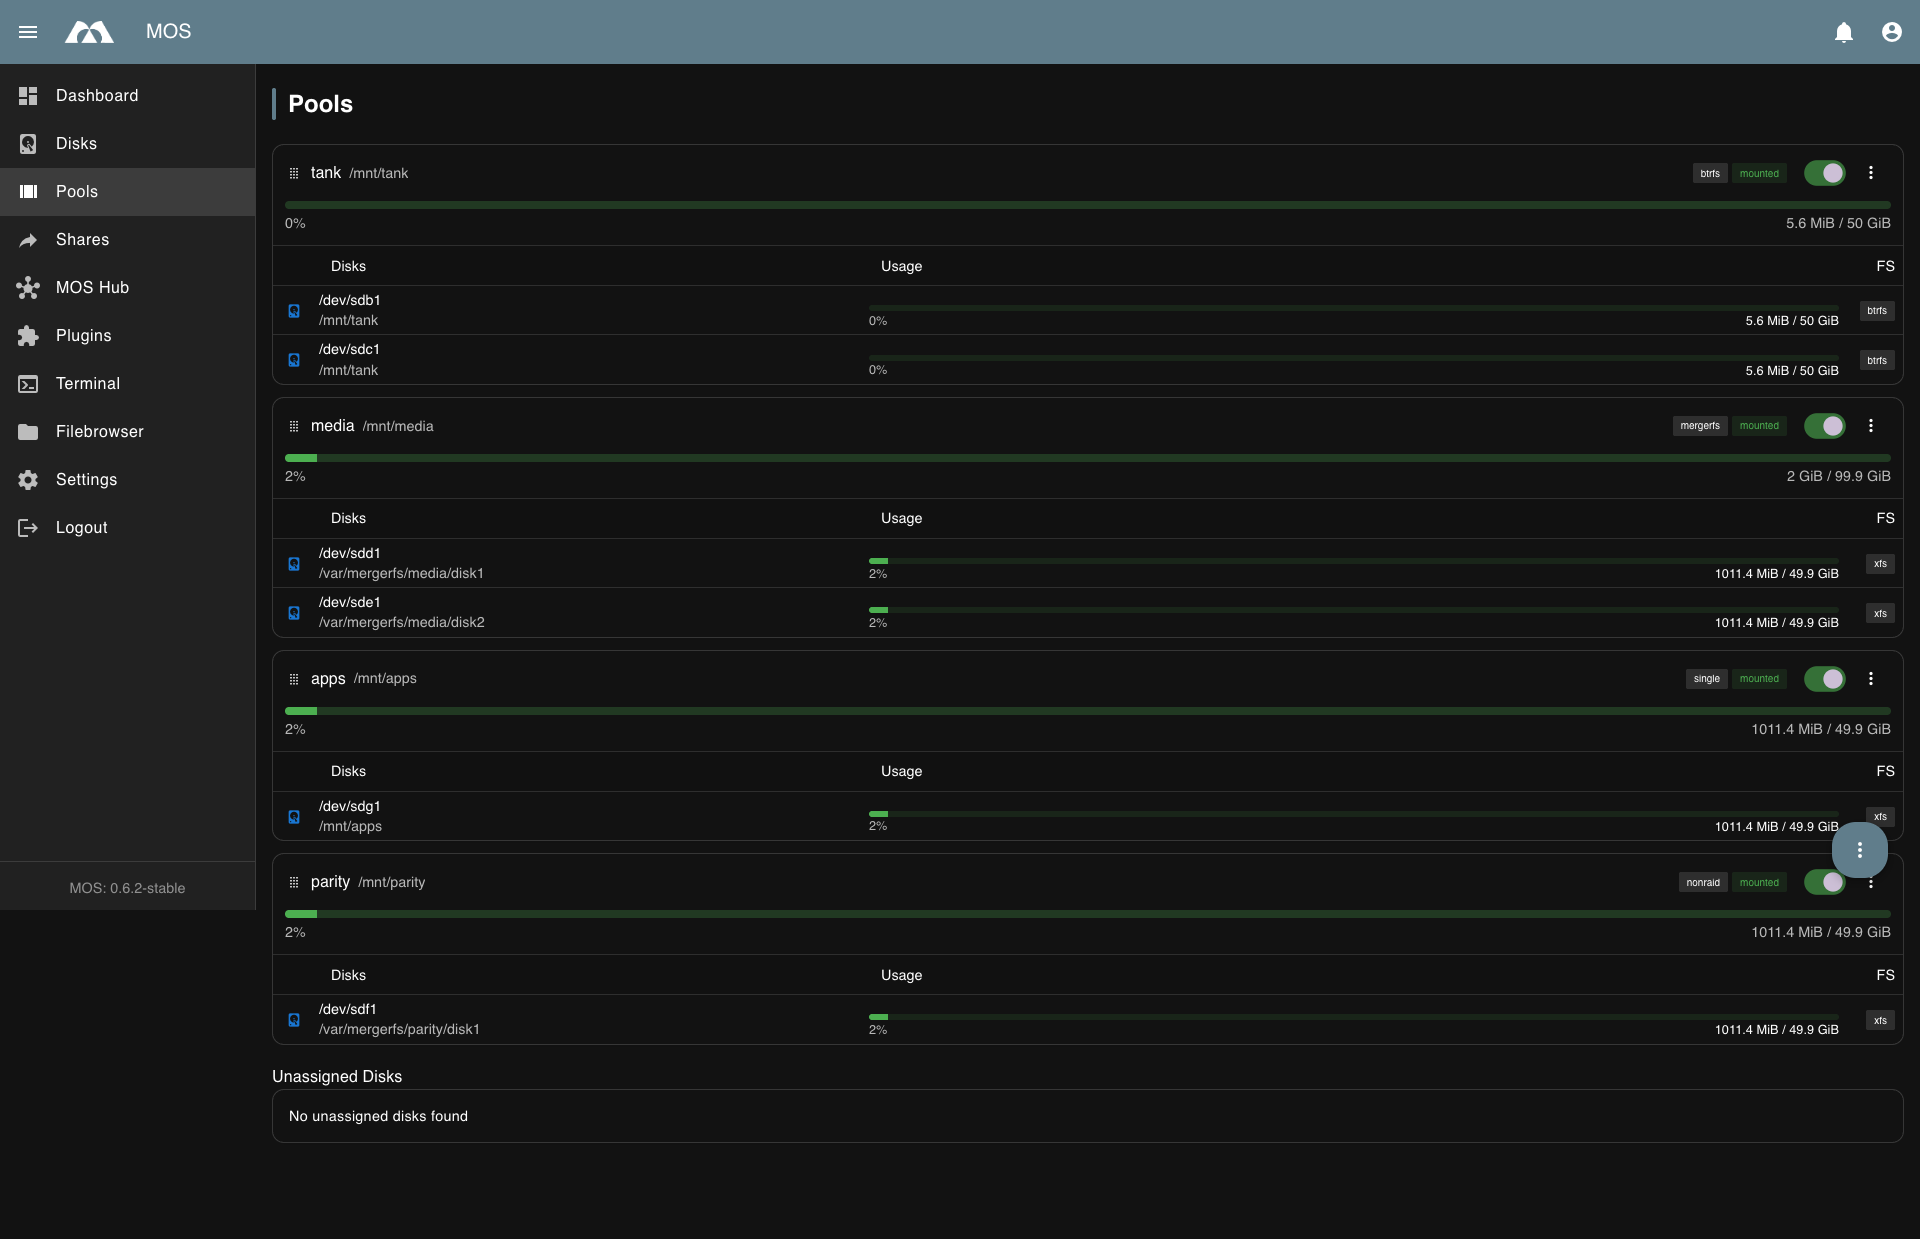
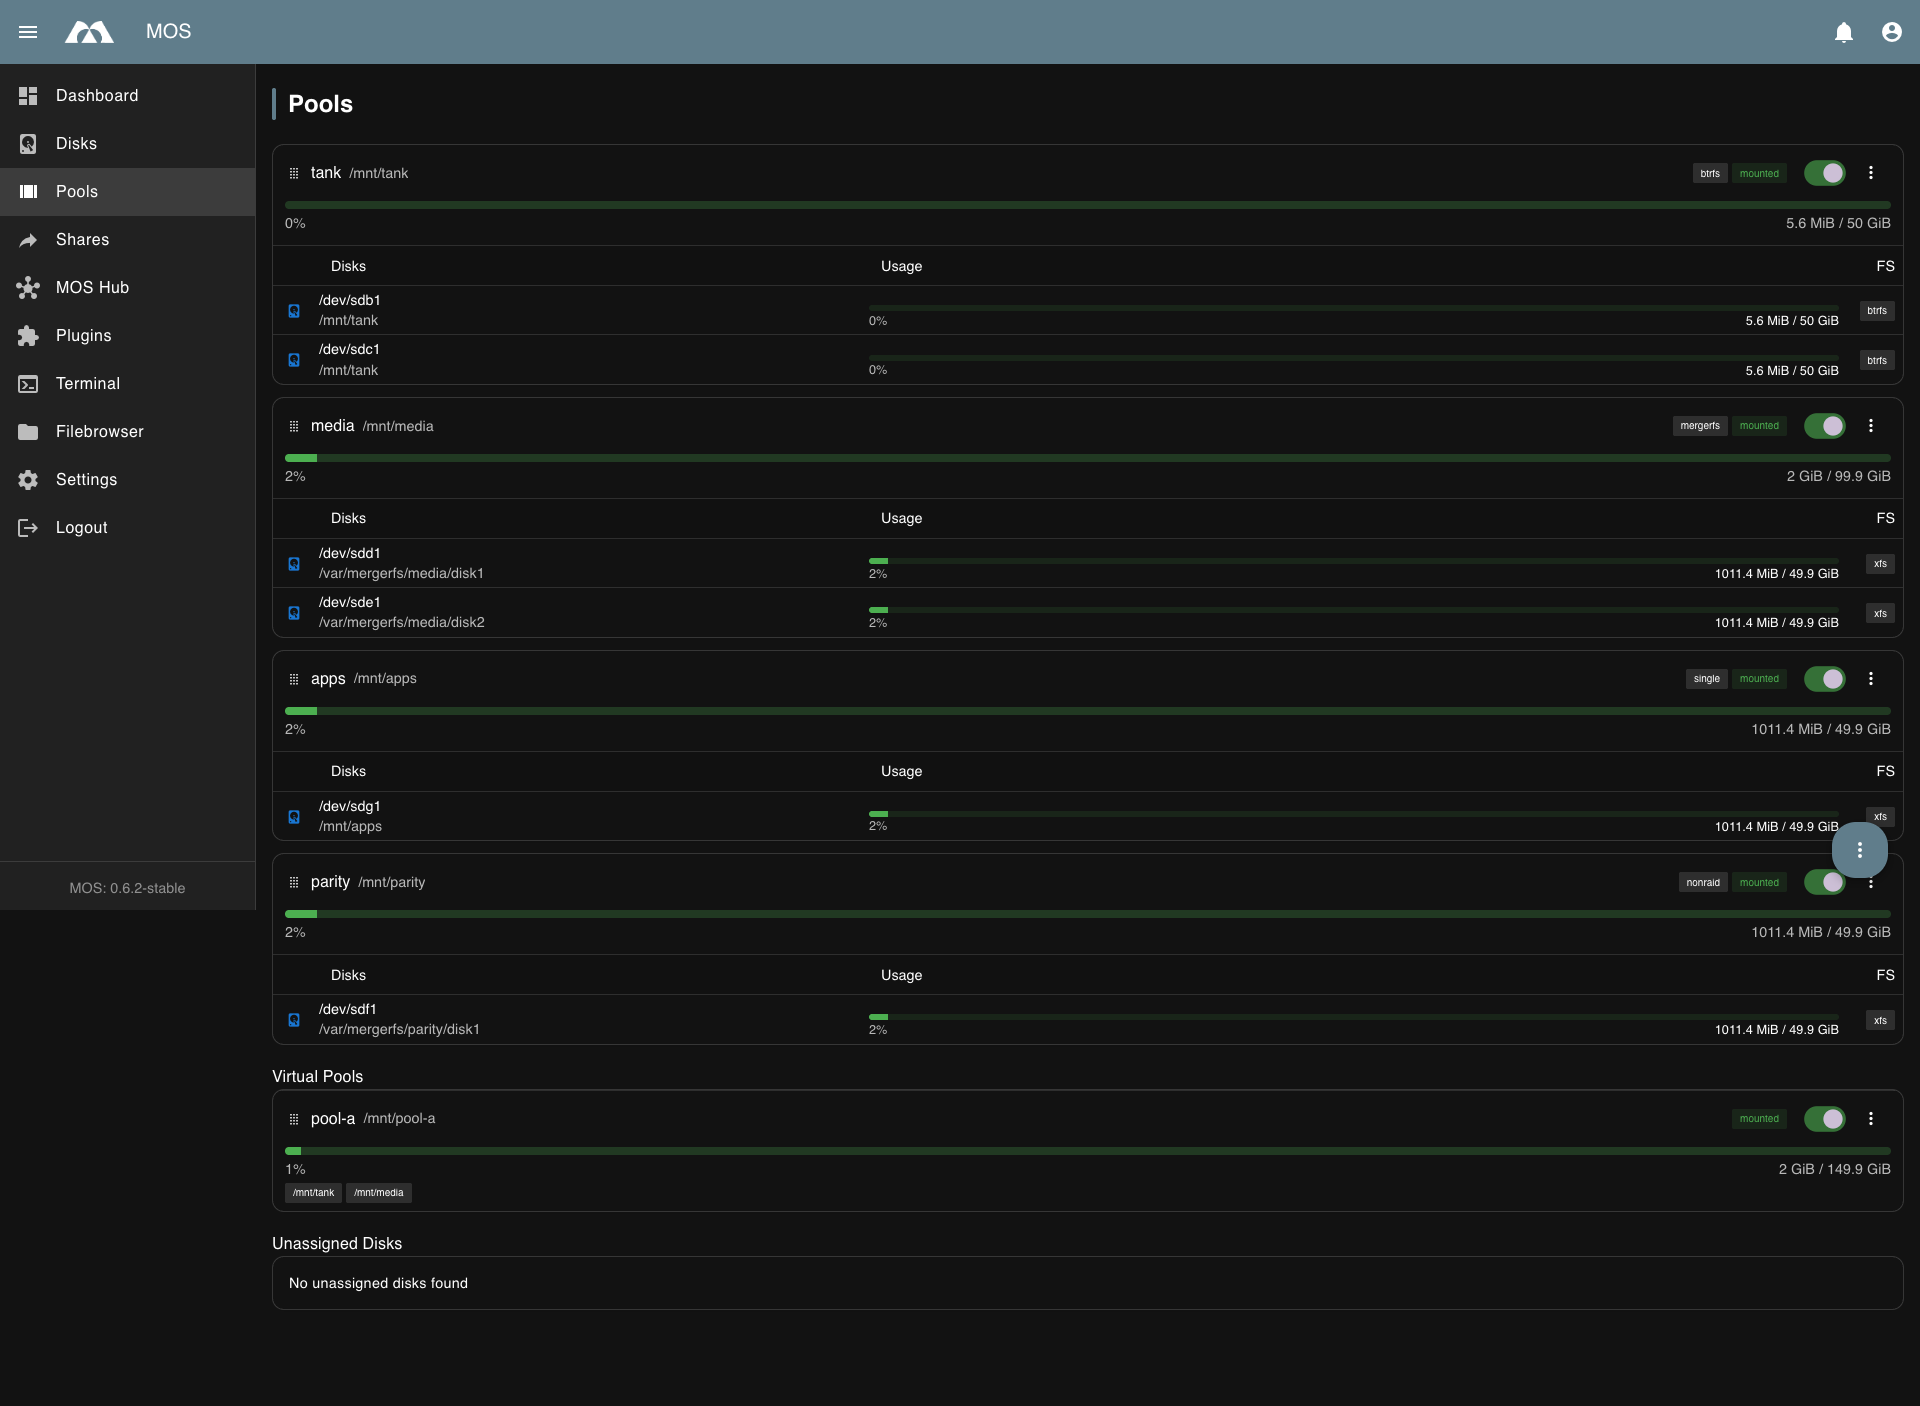
Edit Virtual Pools

diff --git a/docs/Pools/Virtual-Pools.md b/docs/Pools/Virtual-Pools.md
@@ -34,15 +34,15 @@ Regular pools (Create pool) and Virtual Pools (Create Virtual Pool) are separate
 
 ![Create Virtual Pool Dialog](/img/pools/virtual-pool-create-dialog.png)
 
-*The Create Virtual Pool dialog with default values.*
+*The Create Virtual Pool dialog with two paths selected.*
 
 ### Configuration Fields
 
 | Field | Type | Default | Description |
 |-------|------|---------|-------------|
 | **Name** | Text | — | Name of the Virtual Pool. Used for the mount point (e.g., `vpool` → `/mnt/vpool`). |
-| **Paths** | Text + Add | — | One or more existing directory paths to combine (e.g., `/mnt/main`, `/mnt/media`). Click **Add** to add multiple paths. |
-| **Comment** | Text | `mspmfs` | Optional comment or description for the pool. |
+| **Paths** | Directory picker + Add | — | One or more existing directory paths to combine (e.g., `/mnt/main`, `/mnt/media`). Click **Add** to open the directory picker. |
+| **Comment** | Text | — | Optional comment or description for the pool. |
 | **Create Policy** | Dropdown | `mspmfs` | mergerfs policy for distributing new files across paths — see [Create Policy](#create-policy). |
 | **Search Policy** | Dropdown | `ff` | mergerfs policy for finding existing files across paths — see [Search Policy](#search-policy). |
 | **Automount** | Toggle | On | Automatically mount the Virtual Pool during system startup. |
@@ -53,9 +53,10 @@ Regular pools (Create pool) and Virtual Pools (Create Virtual Pool) are separate
 
 The **Paths** field is the core of a Virtual Pool. You add existing directories that should be combined:
 
-1. Enter a path (e.g., `/mnt/main`)
-2. Click **Add** to add it to the list
-3. Repeat for additional paths (e.g., `/mnt/media`, `/mnt/backup`)
+1. Click **Add** to open the directory picker
+2. Navigate to the directory (double-click a folder) and select it
+3. Click **Select** to add the path to the list
+4. Repeat for additional paths (e.g., `/mnt/media`, `/mnt/backup`)
 
 All files from all added paths will appear as a single unified directory structure under the Virtual Pool mount point.
 
@@ -75,11 +76,11 @@ mergerfs uses **policies** to determine how files are distributed and found acro
 
 ### Create Policy
 
-The **Create Policy** determines which path receives a **new file** when it is written to the Virtual Pool. MOS offers 20 policies, including:
+The **Create Policy** determines which path receives a **new file** when it is written to the Virtual Pool. MOS offers 13 policies:
 
-- **Non-path-preserving** (`pfrd`, `rand`, `mfs`, `ff`, `lfs`, `lup`, `lus`, `all`, `newest`) — consider all paths regardless of existing directory structure
+- **Non-path-preserving** (`mfs`, `ff`, `lfs`, `lup`, `lus`, `all`) — consider all paths regardless of existing directory structure
 - **Path-preserving (msp)** (`msppfrd`, `mspmfs`, `msplfs`, `msplus`) — prefer paths where the target directory already exists
-- **Existing path (ep)** (`eppfrd`, `epmfs`, `eprand`, `epff`, `eplfs`, `eplus`, `epall`) — strictly require the target directory to exist on a path
+- **Existing path (ep)** (`eppfrd`, `epmfs`, `eprand`) — strictly require the target directory to exist on a path
 
 Default: `mspmfs` (Most Similar Path, Most Free Space)
 
@@ -107,7 +108,6 @@ For a complete description of all available mergerfs policies, their behavior, a
 
 | Use Case | Recommended Policy | Why |
 |----------|-------------------|-----|
-| **General use** | `pfrd` | Even distribution, no path overload |
 | **Keep related files together** | `mspmfs` (default) | Path-preserving + most free space |
 | **Maximize capacity** | `mfs` | Always uses the path with most space |
 | **Simple, predictable** | `ff` | First path in order |
@@ -202,7 +202,7 @@ Virtual Pools provide a flexible way to combine existing storage paths into a si
 Key points:
 
 - **No dedicated disks needed** — uses existing directory paths
-- **20 Create Policies** — control how new files are distributed (default: `mspmfs`)
+- **13 Create Policies** — control how new files are distributed (default: `mspmfs`)
 - **5 Search Policies** — control how existing files are found (default: `ff`)
 - **No data movement** — files stay where they are, only the view is merged
 - **Automount and Sharing** — toggle on for automatic startup and network access
